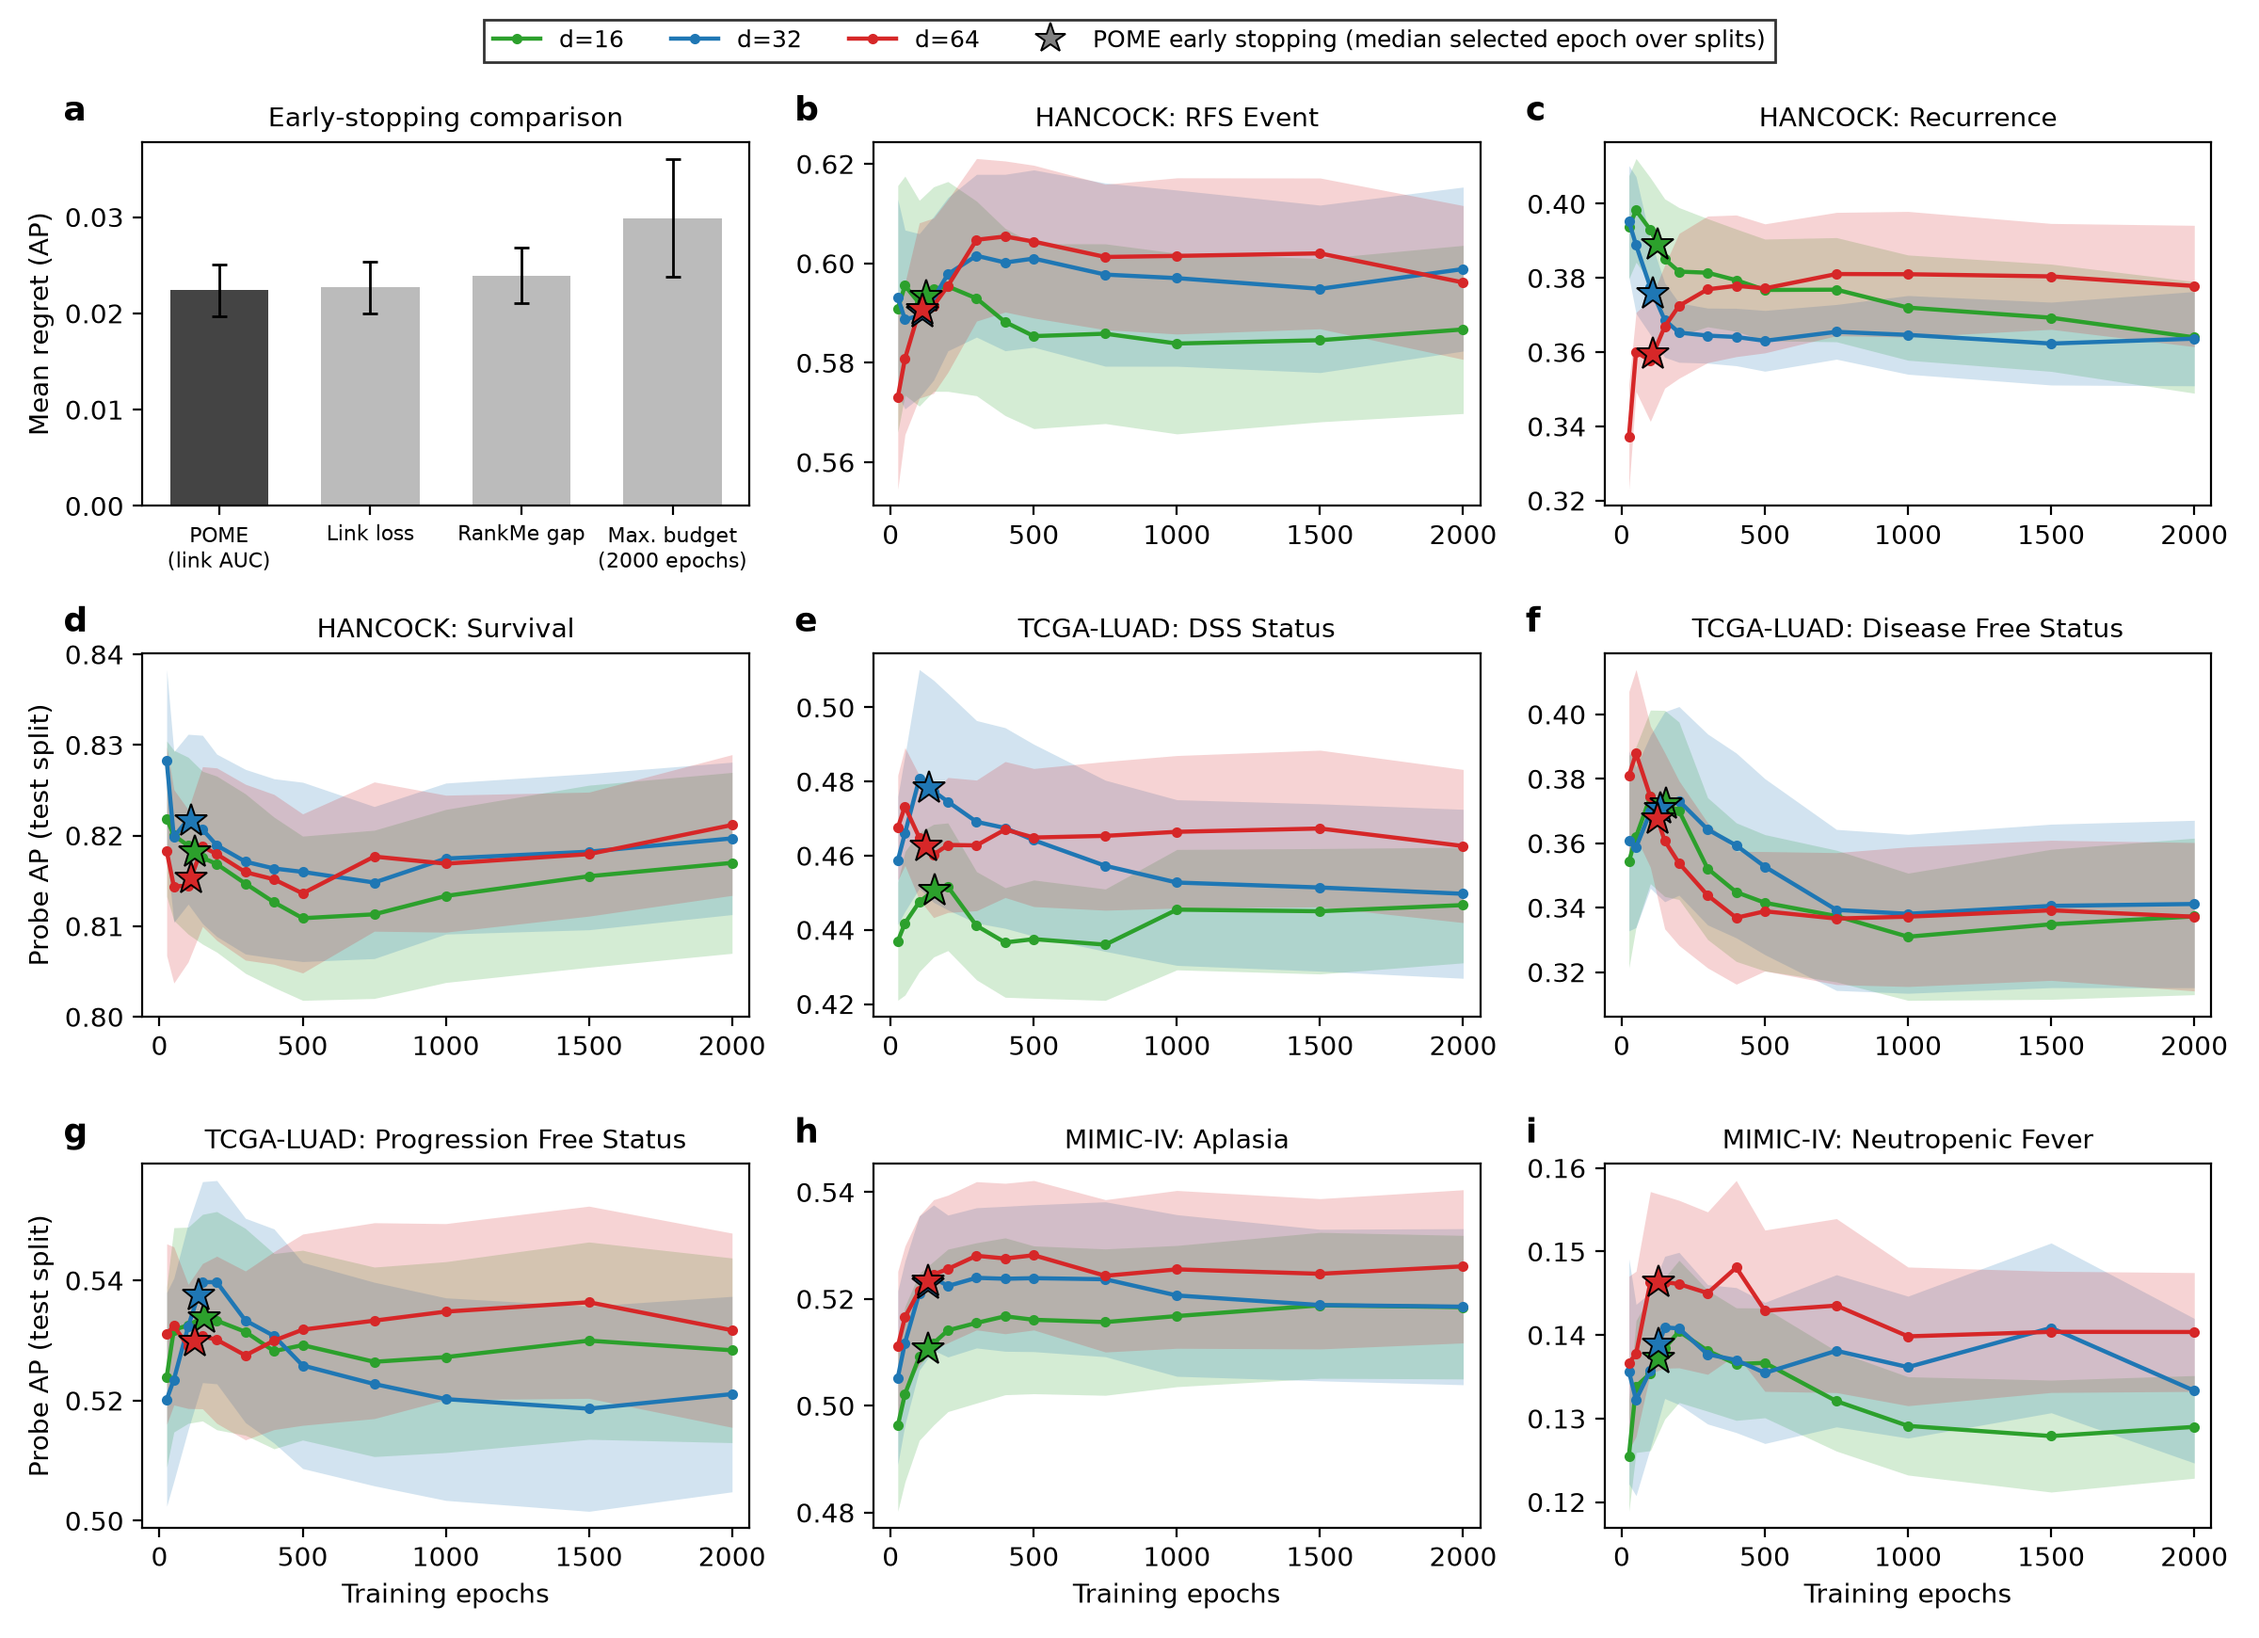
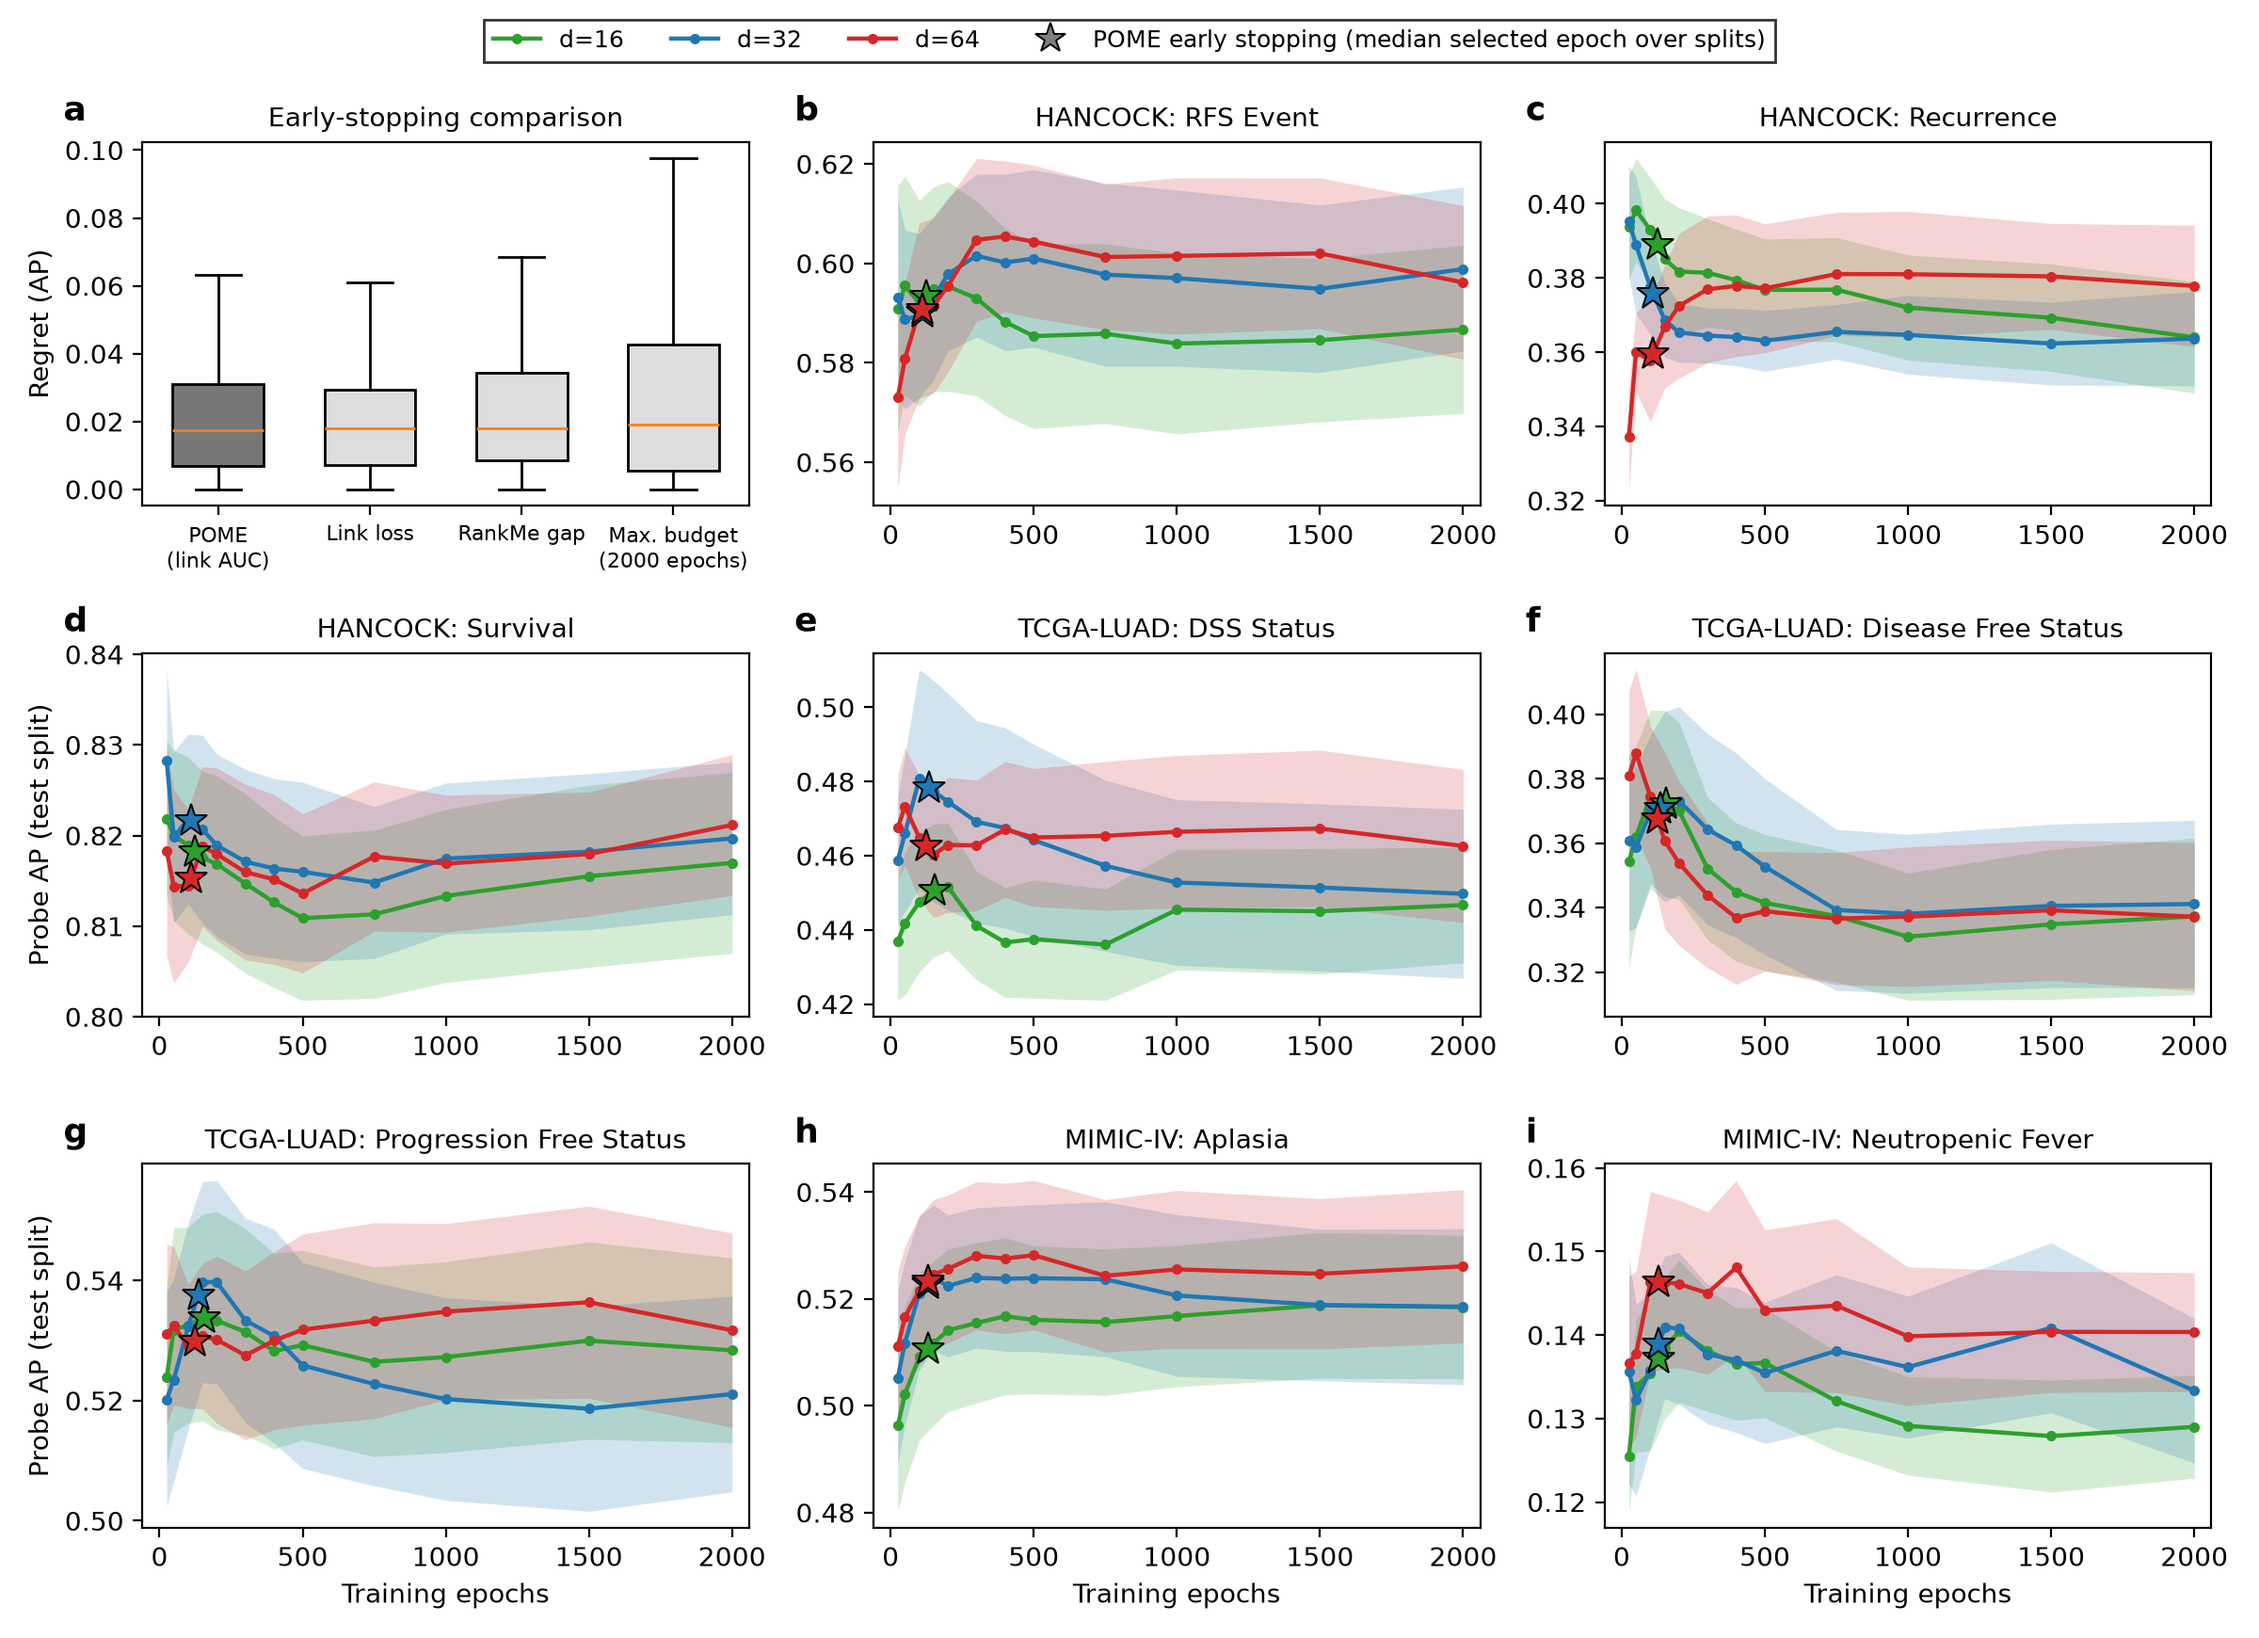
ap_per_target panel a: box plot of the per-target regrets
Replace the mean-regret bars (bootstrap CI) with a standard box plot of
the 240 per-target regrets (3 dims x 10 splits x 8 targets) of each
rule at its tuned setting, read from criteria_ablation/regret_per_target.csv.
Outlier points are hidden.

Changed region(s): [[0.0, 0.1241, 0.3438, 0.3414]]

diff --git a/scripts/analyze_inductive_epoch_probes.py b/scripts/analyze_inductive_epoch_probes.py
@@ -30,14 +30,15 @@ Run from the project root (CPU; after inductive_stopping_criteria_ablation.py):
     container/run.sh scripts/analyze_inductive_epoch_probes.py
 
 Inputs:  output/inductive_stopping_ablation/{dataset}/dim_{D}/split_{NN}/grid_probes.csv,
-         criteria_ablation/{summary,hyperparameters,selections}.csv
+         criteria_ablation/{summary,hyperparameters,selections,regret_per_target}.csv
 Outputs (output/inductive_stopping_ablation/):
   epoch_peaks.csv           AP maxima over the epoch grid vs. the 2000-epoch budget
   ap_per_target.pdf/.png    AP vs. epochs per target: mean +- SEM over splits, per dim, with the
                             epoch selected by the best early-stopping criterion (POME's default
-                            since 1.7); panel a: mean regret (95 % CI) of that rule vs. the
-                            smoothed held-out link loss, the RankMe gap of POME 1.4 (tuned) and
-                            the full 2000-epoch budget (criteria_ablation/summary.csv)
+                            since 1.7); panel a: box plot of the per-target regrets (3 dims x
+                            10 splits x 8 targets) of that rule vs. the smoothed held-out link
+                            loss, the RankMe gap of POME 1.4 (each at its tuned setting) and the
+                            full 2000-epoch budget (criteria_ablation/regret_per_target.csv)
 """
 import argparse
 from pathlib import Path
@@ -54,7 +55,7 @@ ROOT = PROJECT_ROOT / "output" / "inductive_stopping_ablation"
 DATASETS = {"hancock": "HANCOCK", "luad_noleak": "TCGA-LUAD", "mimic": "MIMIC-IV"}
 BUDGET = 2000  # POME's default inductive training budget
 DIM_COLORS = {16: "#2ca02c", 32: "#1f77b4", 64: "#d62728"}
-# regret panel: POME's default early stopping vs. the comparison rules (summary.csv criteria)
+# regret panel: POME's default early stopping vs. the comparison rules (criteria_ablation criteria)
 REGRET_BARS = {"val_auc_ema": "POME\n(link AUC)",
                "val_loss_ema": "Link loss",
                "rankme_gap": "RankMe gap",
@@ -105,21 +106,29 @@ def best_criterion_epochs(root):
     return f"{best.label} ({param})", med
 
 
-def plot_regret(ax, summary):
-    """Mean regret (target mean, 95 % bootstrap CI over splits) of the REGRET_BARS criteria."""
-    s = summary.set_index("criterion").loc[list(REGRET_BARS)]
-    x = np.arange(len(s))
-    colors = ["#444444"] + ["#bbbbbb"] * (len(s) - 1)
-    ax.bar(x, s.regret, color=colors, width=0.65,
-           yerr=[s.regret - s.ci_low, s.ci_high - s.regret], capsize=3, ecolor="black",
-           error_kw=dict(lw=1))
-    ax.set_xticks(x)
+def tuned_regrets(root):
+    """Per-target regrets (dataset x dim x split x target) of each criterion at its tuned
+    hyperparameters (criteria_ablation/{regret_per_target,hyperparameters}.csv)."""
+    crit_dir = root / "criteria_ablation"
+    reg = pd.read_csv(crit_dir / "regret_per_target.csv")
+    hp = pd.read_csv(crit_dir / "hyperparameters.csv")
+    return reg.merge(hp[["criterion", "param"]], on=["criterion", "param"])
+
+
+def plot_regret(ax, regrets):
+    """Box plot of the per-target regrets (dataset x dim x split x target, 240 values per
+    criterion) of the REGRET_BARS criteria, matplotlib's default box/whisker rules, no fliers."""
+    data = [regrets.loc[regrets.criterion == c, "regret"].to_numpy() for c in REGRET_BARS]
+    bp = ax.boxplot(data, patch_artist=True, widths=0.6, showfliers=False)
+    for patch, col in zip(bp["boxes"], ["#777777"] + ["#dddddd"] * (len(data) - 1)):
+        patch.set_facecolor(col)
+    ax.set_xticks(np.arange(1, len(data) + 1))
     ax.set_xticklabels(REGRET_BARS.values(), fontsize=8)
-    ax.set_ylabel("Mean regret (AP)")
+    ax.set_ylabel("Regret (AP)")
     ax.set_title("Early-stopping comparison", fontsize=10)
 
 
-def plot_targets(probes, out, stop_epochs, summary):
+def plot_targets(probes, out, stop_epochs, regrets):
     """Panel a: regret of the early-stopping rules; then AP vs epochs per target (mean +- SEM
     over splits, one line per embedding size), datasets in DATASETS order."""
     panels = [(ds, dsl, t) for ds, dsl in DATASETS.items()
@@ -128,7 +137,7 @@ def plot_targets(probes, out, stop_epochs, summary):
     nrow = -(-(len(panels) + 1) // ncol)
     fig, axes = plt.subplots(nrow, ncol, figsize=(4 * ncol, 2.9 * nrow), squeeze=False)
     flat = axes.ravel()
-    plot_regret(flat[0], summary)
+    plot_regret(flat[0], regrets)
     handles = []
     for k, (ds, dsl, t) in enumerate(panels, start=1):
         ax = flat[k]
@@ -182,8 +191,7 @@ def main() -> None:
     peaks = epoch_peaks(probes)
     peaks.to_csv(args.root / "epoch_peaks.csv", index=False)
     stop_label, stop_epochs = best_criterion_epochs(args.root)
-    summary = pd.read_csv(args.root / "criteria_ablation" / "summary.csv")
-    plot_targets(probes, args.root, stop_epochs, summary)
+    plot_targets(probes, args.root, stop_epochs, tuned_regrets(args.root))
     print("best early-stopping criterion:", stop_label)
     print({k: v for k, v in sorted(stop_epochs.items())})
     with pd.option_context("display.width", 250, "display.max_columns", 40):

diff --git a/scripts/inductive_stopping_criteria_ablation.py b/scripts/inductive_stopping_criteria_ablation.py
@@ -50,6 +50,7 @@ Outputs: output/inductive_stopping_ablation/criteria_ablation/
   selections.csv        selected epoch per criterion x hyperparameters x dataset x dim x split
                         (all dims with a CV trace)
   regret_per_target.csv regret per criterion x hyperparameters x dataset x dim x split x target
+                        (box plot in panel a of analyze_inductive_epoch_probes.py)
   hyperparameters.csv   chosen hyperparameters per criterion
   summary.csv           per criterion: regret, CI, per dataset, p vs budget
 """
